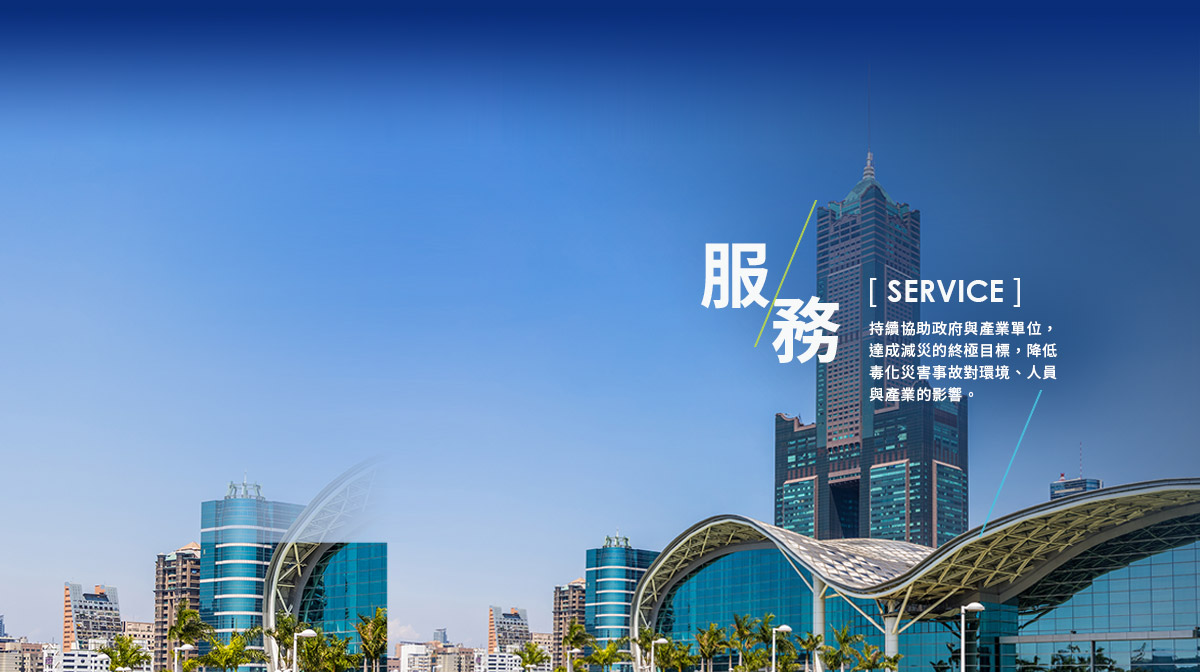
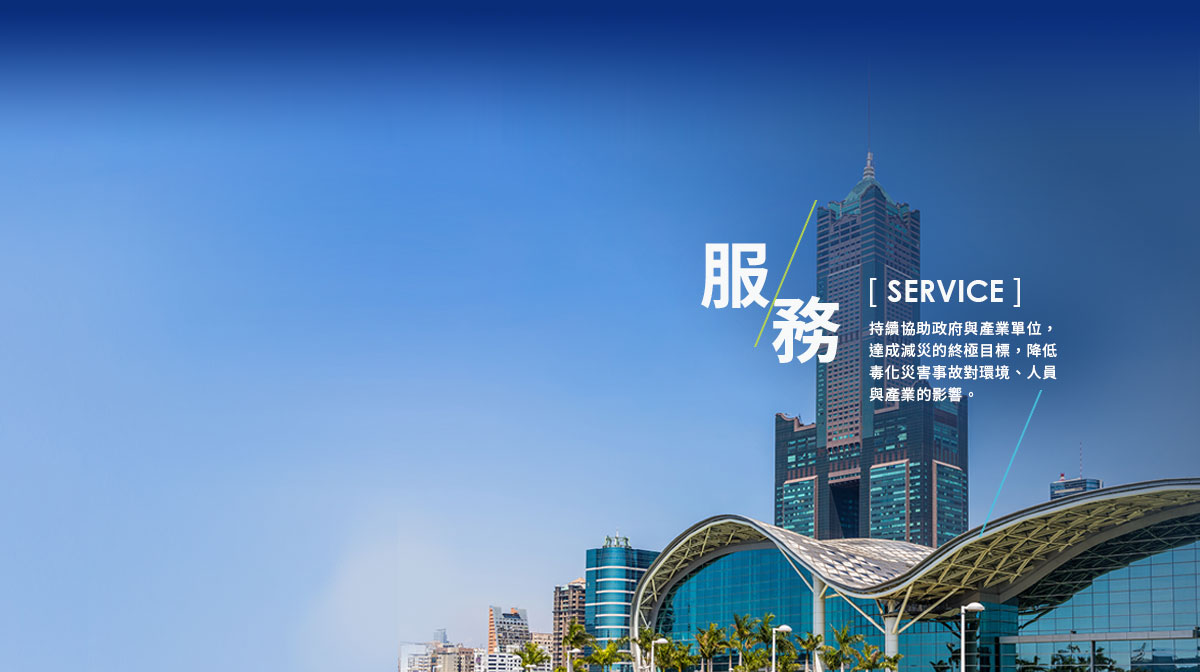
20200824 新增修改三張大圖輪播背景

Changed region(s): [[0.0, 0.625, 0.37, 1.0]]

diff --git a/RWD_05/mp2.html b/RWD_05/mp2.html
@@ -156,6 +156,12 @@
                                 <div class="img-container">
                                     <a href="javascript:;" title=""><img src="images/imagebanner02.jpg" alt="" class="cover"></a>
                                 </div>
+                                <div class="img-container">
+                                    <a href="javascript:;" title=""><img src="images/imagebanner03.jpg" alt="" class="cover"></a>
+                                </div>
+                                <div class="img-container">
+                                    <a href="javascript:;" title=""><img src="images/imagebanner04.jpg" alt="" class="cover"></a>
+                                </div>
                             </div>
                             <!-- end -->
                         </div>
